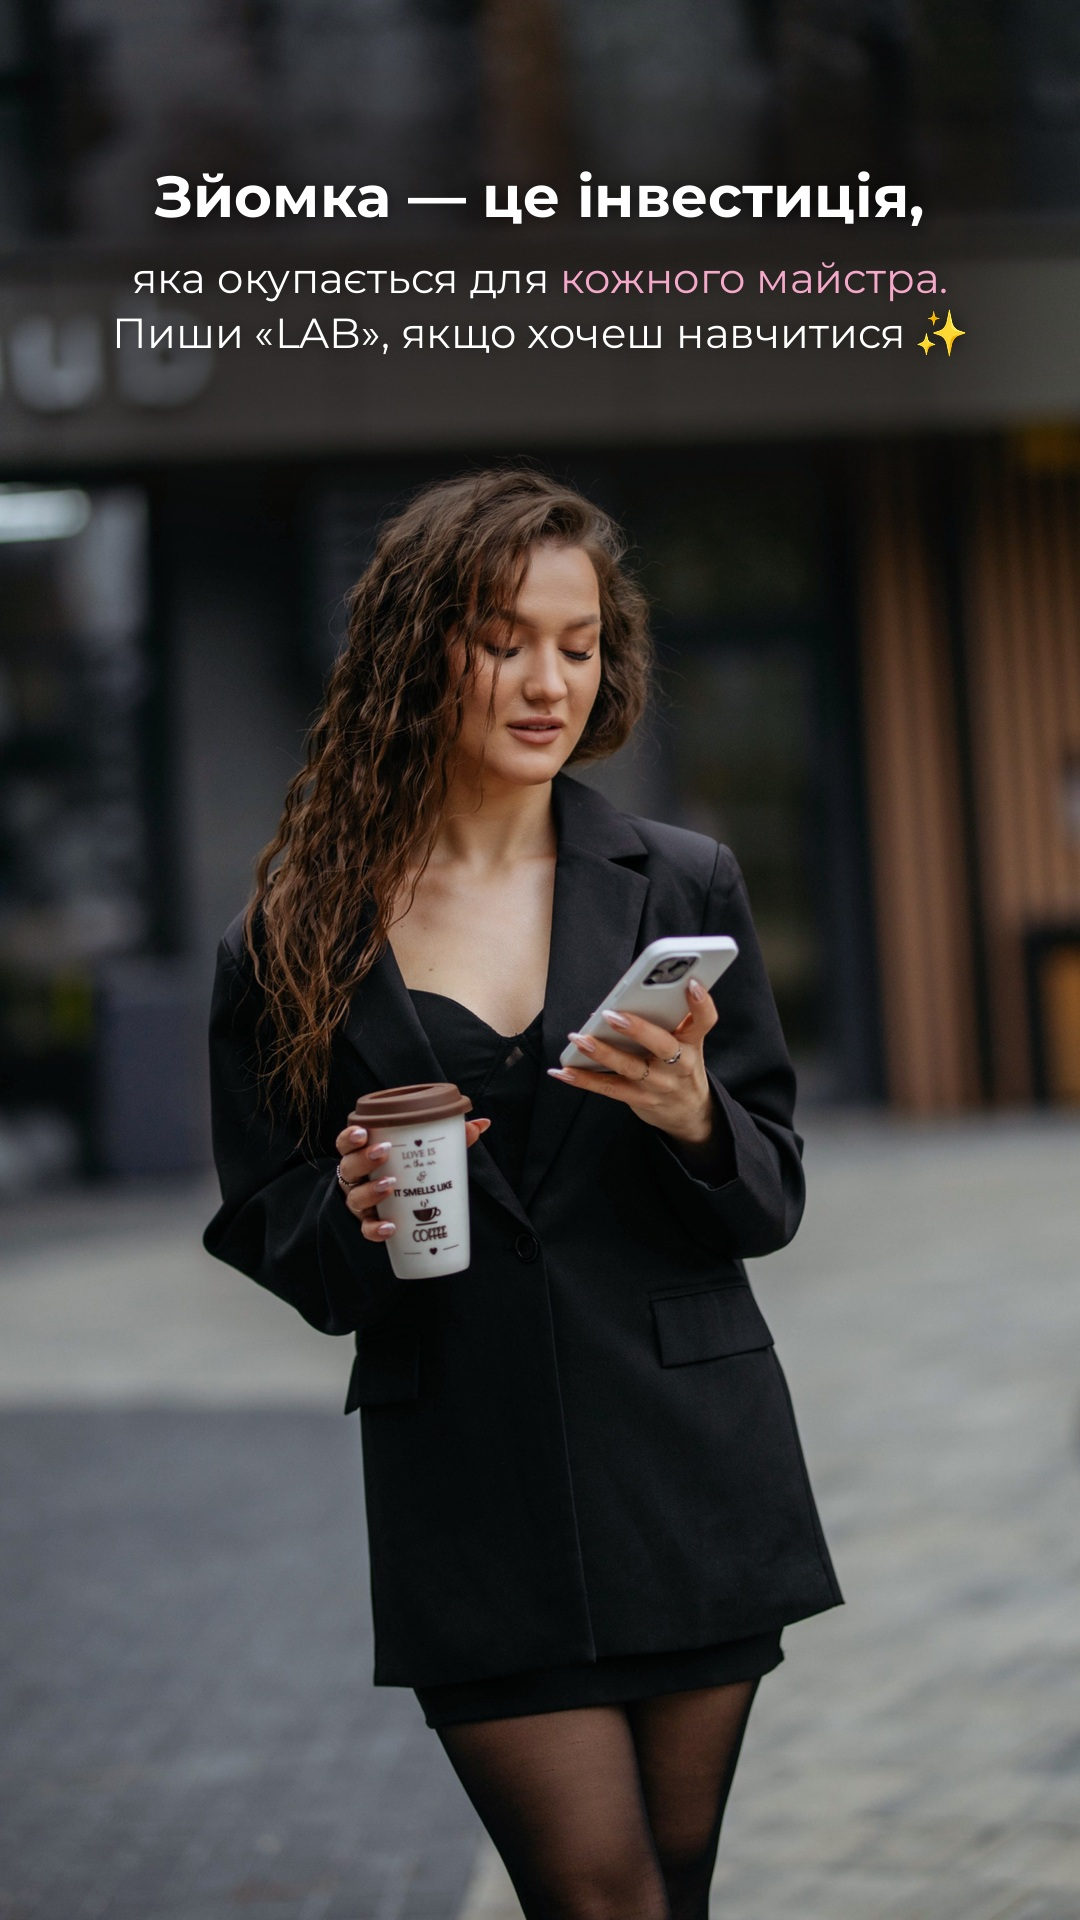
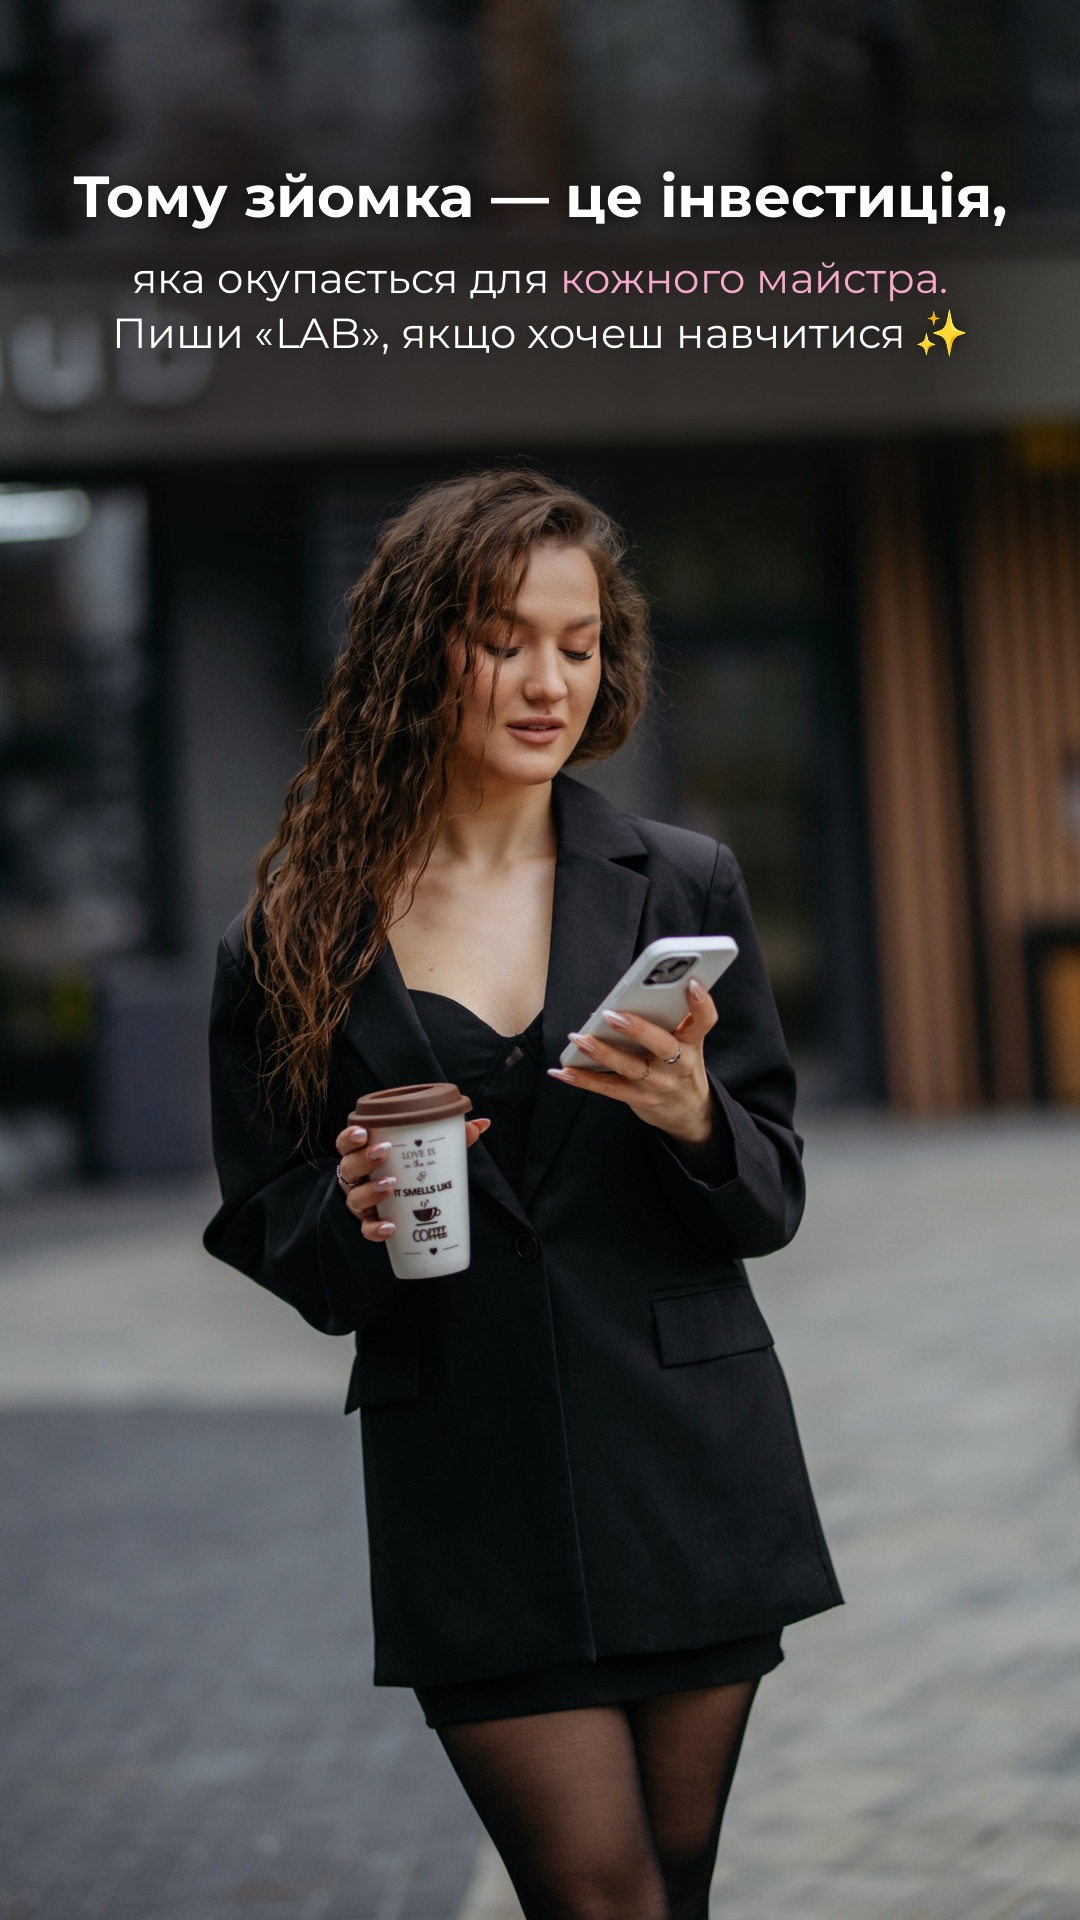
Цінність зйомки: остання сторі починається з «Тому»
Claude-Session: https://claude.ai/code/session_0191xVL2hi5vHUvM1ix6pauC

Changed region(s): [[0.0611, 0.0938, 0.9167, 0.125]]

diff --git a/stories/tsinnist_zyomky/build.py b/stories/tsinnist_zyomky/build.py
@@ -29,5 +29,5 @@ im=c; save(im,2)
 im,_=ctext(fit(f'{U}/27af2422-image.jpg'),1340,'Продаючі кадри приводять клієнтів','Красиве фото — це перше враження про твою роботу ще *до запису*',None,shade=130,bmw=650); save(im,3)
 im,_=ctext(fit(f'{U}/10b2af08-image.jpg'),1420,'А відео передає *професіоналізм*','У ньому видно твою техніку, акуратність і процес — і довіри одразу більше',None,shade=120); save(im,4)
 im,_=ctext(fit(f'{U}/2c7aaee4-image.jpg'),200,'Мені зйомка й соцмережі допомогли','набрати клієнтську базу буквально *за 2 місяці* після декрету','🤍',shade=140); save(im,5)
-im,_=ctext(fit(f'{U}/10fe640c-image.jpg'),160,'Зйомка — це інвестиція,','яка окупається для *кожного майстра*. Пиши «LAB», якщо хочеш навчитися','✨',shade=150,mw=960); save(im,6)
+im,_=ctext(fit(f'{U}/10fe640c-image.jpg'),160,'Тому зйомка — це інвестиція,','яка окупається для *кожного майстра*. Пиши «LAB», якщо хочеш навчитися','✨',shade=150,mw=960); save(im,6)
 print('ok')
